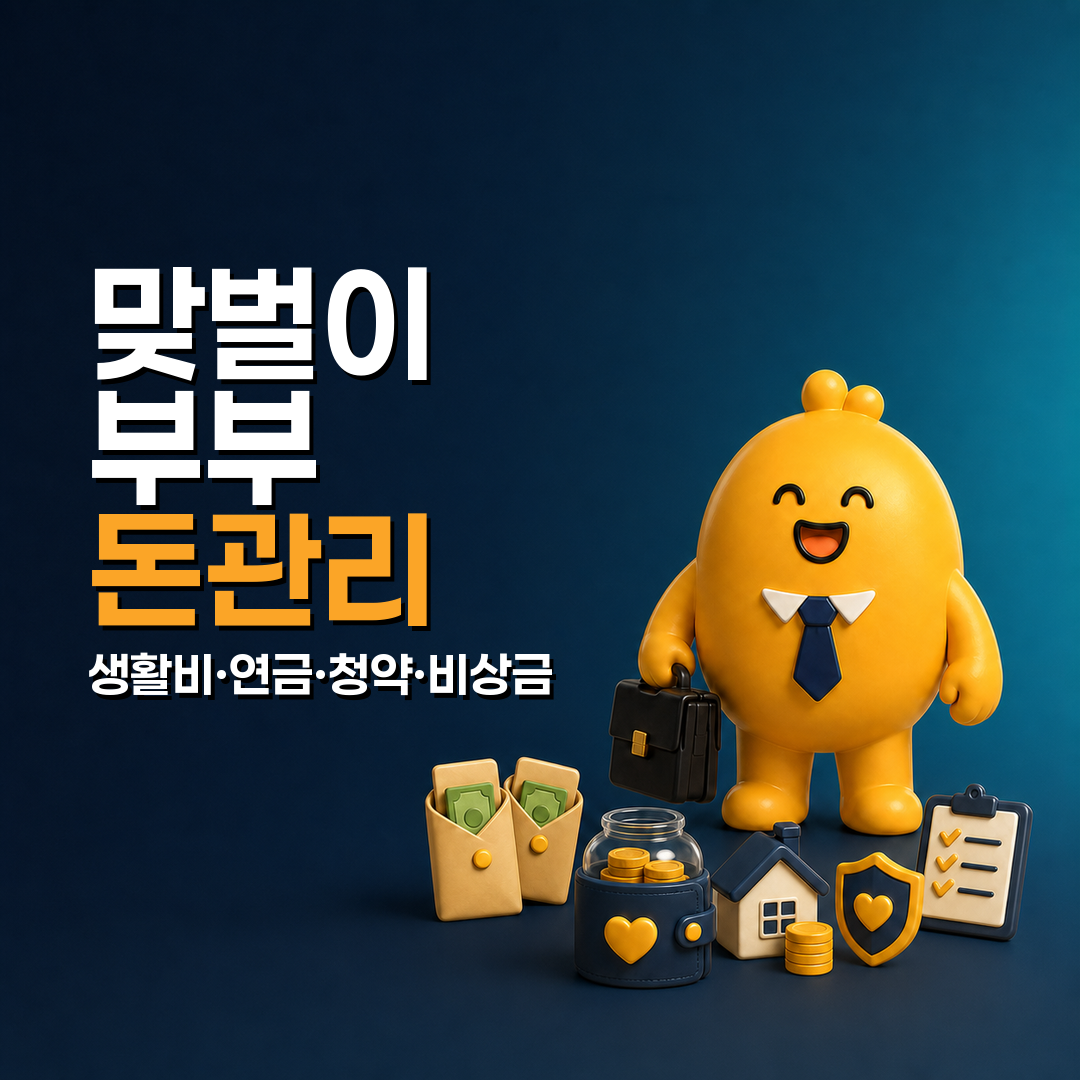
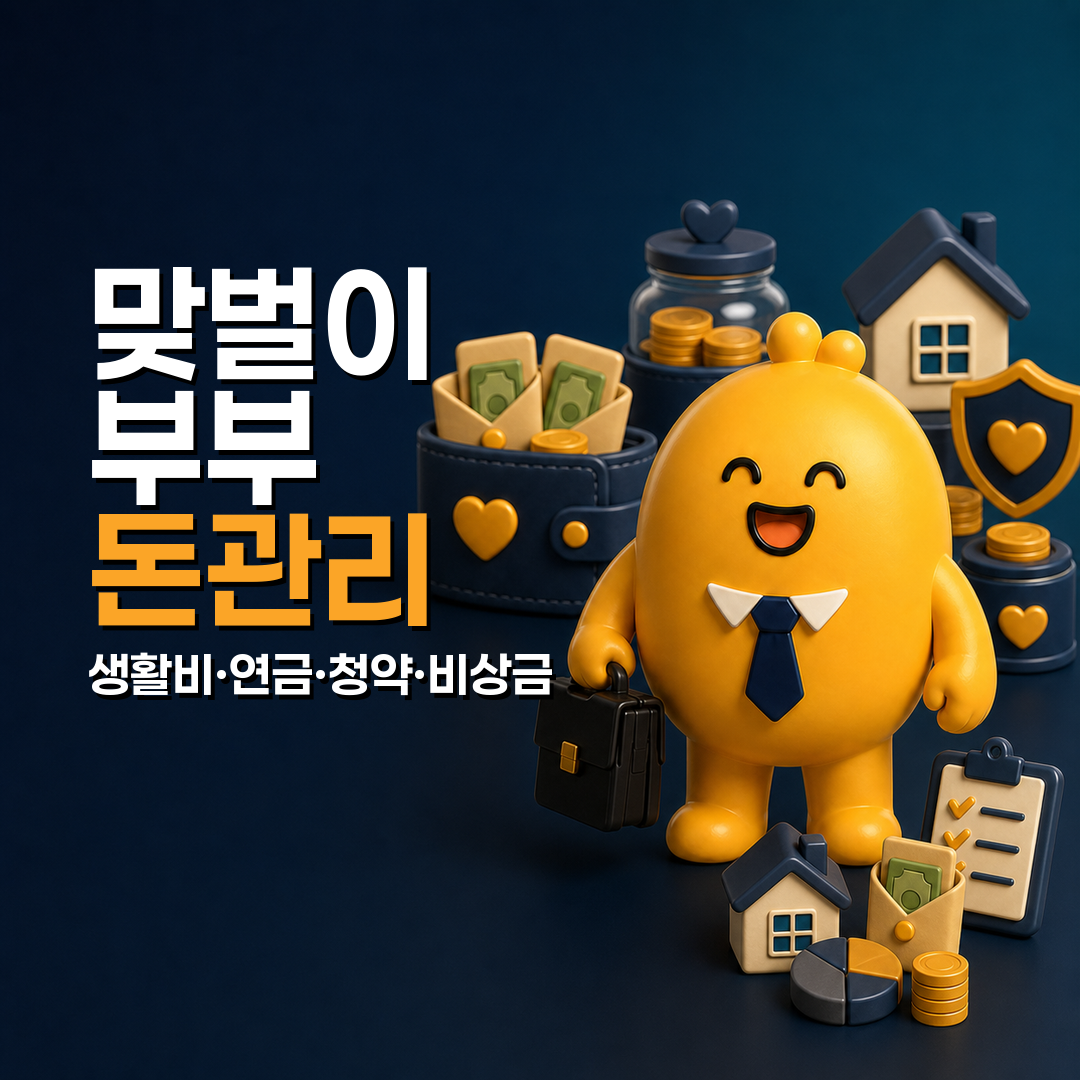
Refresh the dual-income money thumbnail
Constraint: Publish target is the nested GitHub Pages site repo; only static preview thumbnail assets and generated HTML metadata are updated.\nConfidence: high\nScope-risk: narrow\nDirective: Keep article publication manual; do not automate Naver account actions.\nTested: python3 scripts/finalize_article.py --package _workspace/naver-blog/packages/dual-income-couple-money-system-20260606.json passed.\nNot-tested: Live GitHub Pages CDN refresh timing after push.

diff --git a/articles/dual-income-couple-money-system-20260606.html b/articles/dual-income-couple-money-system-20260606.html
@@ -136,7 +136,7 @@
 <p style="margin:12px 0;line-height:1.8;">이 글은 공개 법령과 청약홈 안내를 바탕으로 한 일반 정보입니다. 세액공제, 청약, 투자 결과는 개인의 소득, 세대 구성, 주택 보유 여부, 금융상품 조건에 따라 달라질 수 있으므로 실제 의사결정 전에는 최신 공식 안내와 개인 상황을 함께 확인하세요.</p>
 
 <figure class="generated-asset" data-asset-id="asset-thumb-1" data-asset-role="thumbnail" style="margin:22px 0;">
-  <img src="../assets/dual-income-couple-money-system-20260606/thumbnail-1.png" alt="맞벌이 부부 돈관리를 설명하는 썸네일로, 노란 MoneyMinute 마스코트와 생활비 봉투, 저축 지갑, 집, 비상금 방패 오브제가 보인다." style="max-width:100%;height:auto;border-radius:14px;border:1px solid #d9dee7;">
+  <img src="../assets/dual-income-couple-money-system-20260606/thumbnail-1.png" alt="맞벌이 부부 돈관리를 설명하는 썸네일로, 노란 MoneyMinute 마스코트 뒤와 주변에 지갑, 현금봉투, 저금통, 집, 방패, 체크리스트 오브제가 풍성하게 배치되어 있다." style="max-width:100%;height:auto;border-radius:14px;border:1px solid #d9dee7;">
 </figure>
 </article></div>
     <button class="copy-only" data-copy-target="copy-body-html">Copy formatted HTML body</button>
@@ -306,7 +306,7 @@ Q. 비상금과 투자를 동시에 해도 되나요?
   <section id="copy-image-direction">
     <h2>Image Direction / Asset Notes</h2>
     <p>썸네일: _workspace/naver-blog/assets/dual-income-couple-money-system-20260606/thumbnail-1.png. 본문 인포그래픽: _workspace/naver-blog/assets/dual-income-couple-money-system-20260606/visual-info-1.png. MoneyMinute 캐릭터 시트 기반 3D 톤과 크림/네이비/#FBA527 인포그래픽 스타일 적용.</p>
-    <p>thumbnail: 맞벌이 부부 돈관리를 설명하는 썸네일로, 노란 MoneyMinute 마스코트와 생활비 봉투, 저축 지갑, 집, 비상금 방패 오브제가 보인다. (_workspace/naver-blog/assets/dual-income-couple-money-system-20260606/thumbnail-1.png) / infographic: 맞벌이 부부 돈관리 4단계를 생활비 통장, 연금계좌, 청약통장, 비상금 네 개 카드와 금융 아이콘으로 정리한 캐릭터 없는 인포그래픽 (_workspace/naver-blog/assets/dual-income-couple-money-system-20260606/visual-info-1.png)</p>
+    <p>thumbnail: 맞벌이 부부 돈관리를 설명하는 썸네일로, 노란 MoneyMinute 마스코트 뒤와 주변에 지갑, 현금봉투, 저금통, 집, 방패, 체크리스트 오브제가 풍성하게 배치되어 있다. (_workspace/naver-blog/assets/dual-income-couple-money-system-20260606/thumbnail-1.png) / infographic: 맞벌이 부부 돈관리 4단계를 생활비 통장, 연금계좌, 청약통장, 비상금 네 개 카드와 금융 아이콘으로 정리한 캐릭터 없는 인포그래픽 (_workspace/naver-blog/assets/dual-income-couple-money-system-20260606/visual-info-1.png)</p>
     <button class="copy-only" data-copy-target="copy-image-direction">Copy image direction</button>
   </section>
 

diff --git a/index.html b/index.html
@@ -40,7 +40,7 @@
   <main class="grid" id="article-list">
     
         <article class="card" data-package-id="dual-income-couple-money-system-20260606">
-          <img class="thumb" src="assets/dual-income-couple-money-system-20260606/thumbnail-1.png" alt="맞벌이 부부 돈관리를 설명하는 썸네일로, 노란 MoneyMinute 마스코트와 생활비 봉투, 저축 지갑, 집, 비상금 방패 오브제가 보인다.">
+          <img class="thumb" src="assets/dual-income-couple-money-system-20260606/thumbnail-1.png" alt="맞벌이 부부 돈관리를 설명하는 썸네일로, 노란 MoneyMinute 마스코트 뒤와 주변에 지갑, 현금봉투, 저금통, 집, 방패, 체크리스트 오브제가 풍성하게 배치되어 있다.">
           <div class="card-content">
             <div class="meta">2026-06-06 · <span class="category-label">금융상품 기초 &gt; 연금 계좌</span> · final_copy_ready</div>
             <h2>맞벌이 부부 돈관리 시작 순서: 생활비·연금·청약·비상금 체크리스트</h2>
@@ -1929,7 +1929,7 @@ Q4. 청년형 ISA와 국민성장 ISA를 둘 다 가입할 수 있나요?
 <p style="margin:12px 0;line-height:1.8;">이 글은 공개 법령과 청약홈 안내를 바탕으로 한 일반 정보입니다. 세액공제, 청약, 투자 결과는 개인의 소득, 세대 구성, 주택 보유 여부, 금융상품 조건에 따라 달라질 수 있으므로 실제 의사결정 전에는 최신 공식 안내와 개인 상황을 함께 확인하세요.</p>
 
 <figure class="generated-asset" data-asset-id="asset-thumb-1" data-asset-role="thumbnail" style="margin:22px 0;">
-  <img src="assets/dual-income-couple-money-system-20260606/thumbnail-1.png" alt="맞벌이 부부 돈관리를 설명하는 썸네일로, 노란 MoneyMinute 마스코트와 생활비 봉투, 저축 지갑, 집, 비상금 방패 오브제가 보인다." style="max-width:100%;height:auto;border-radius:14px;border:1px solid #d9dee7;">
+  <img src="assets/dual-income-couple-money-system-20260606/thumbnail-1.png" alt="맞벌이 부부 돈관리를 설명하는 썸네일로, 노란 MoneyMinute 마스코트 뒤와 주변에 지갑, 현금봉투, 저금통, 집, 방패, 체크리스트 오브제가 풍성하게 배치되어 있다." style="max-width:100%;height:auto;border-radius:14px;border:1px solid #d9dee7;">
 </figure>
 </article></template><template id="body-beginner-card-credit-check-20260605"><article class="naver-blog-body">
 <h1 style="font-size:28px;line-height:1.35;">사회초년생 신용카드 vs 체크카드: 소득공제·신용점수·결제일 체크리스트</h1>